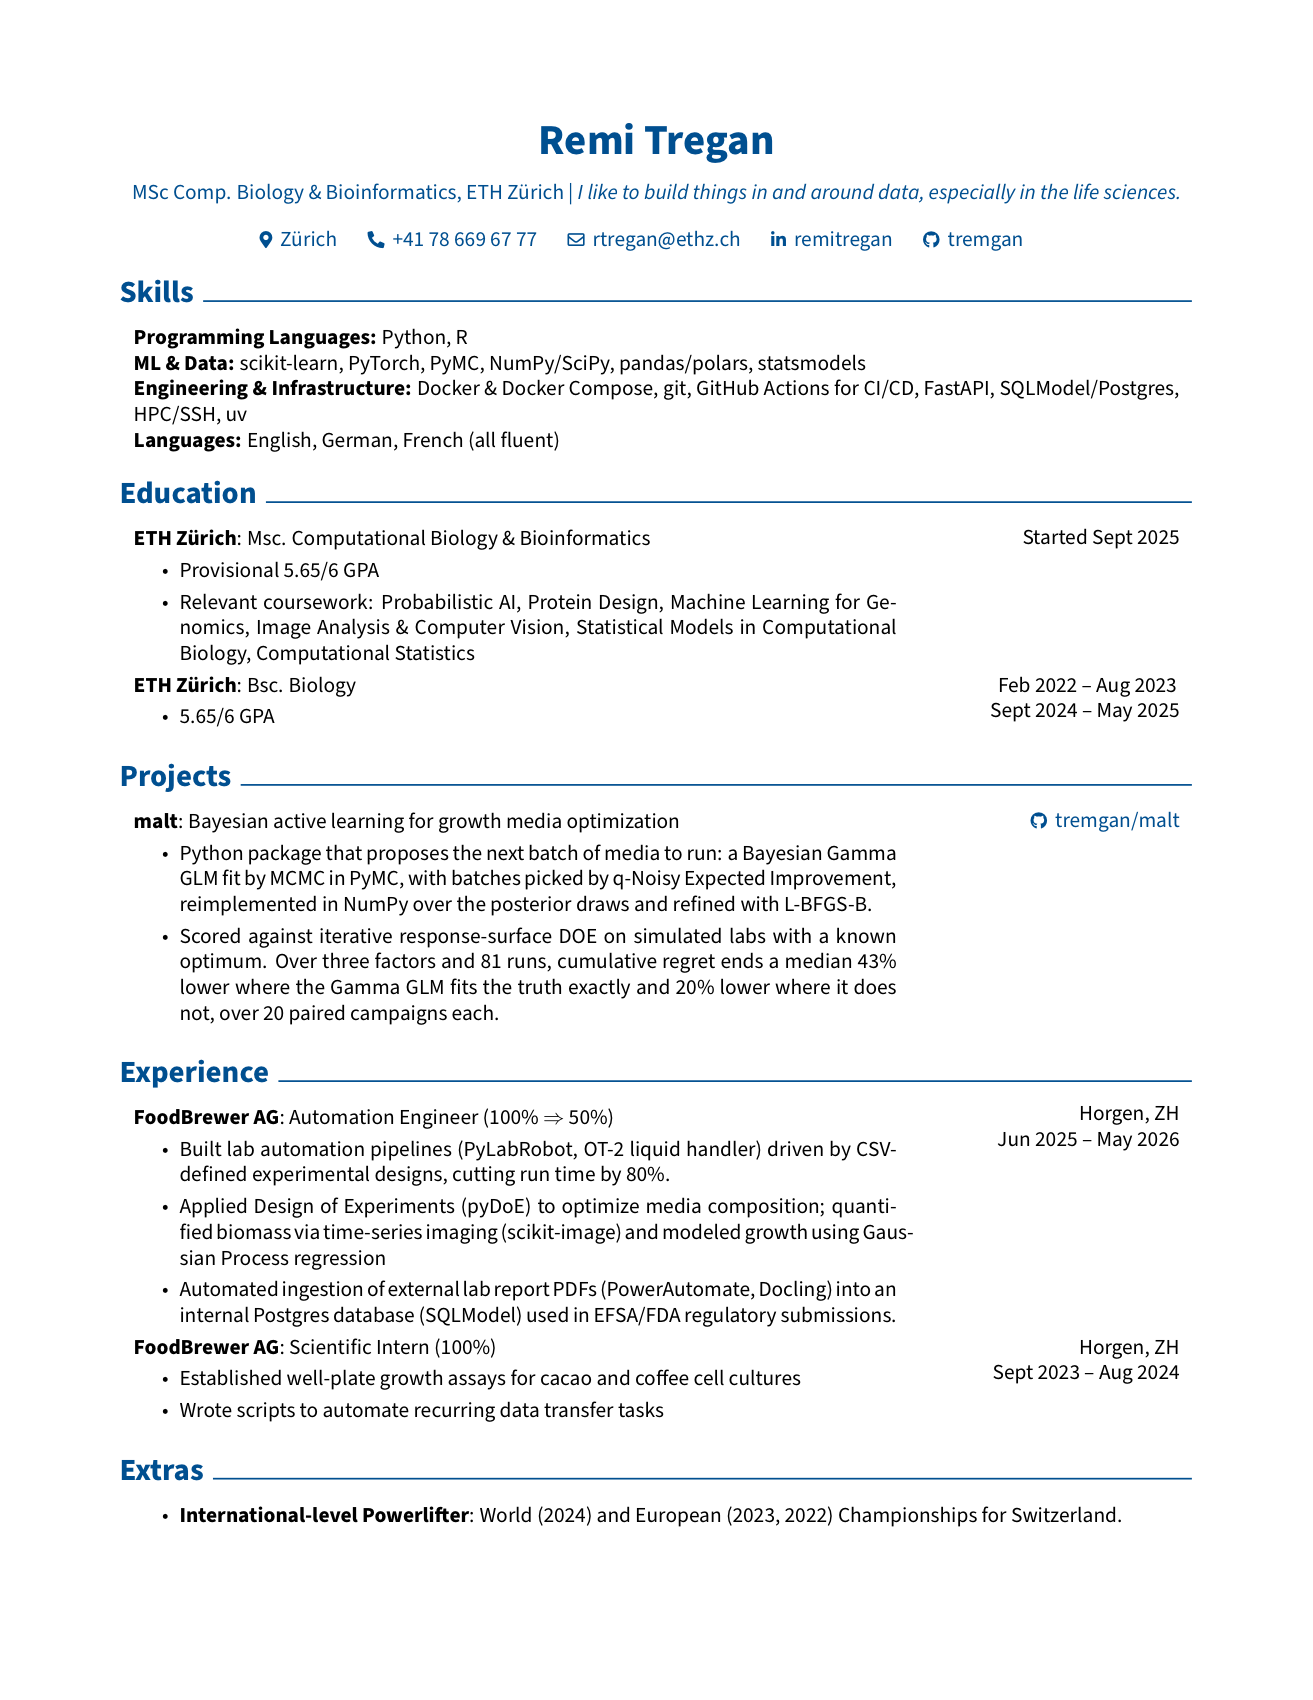
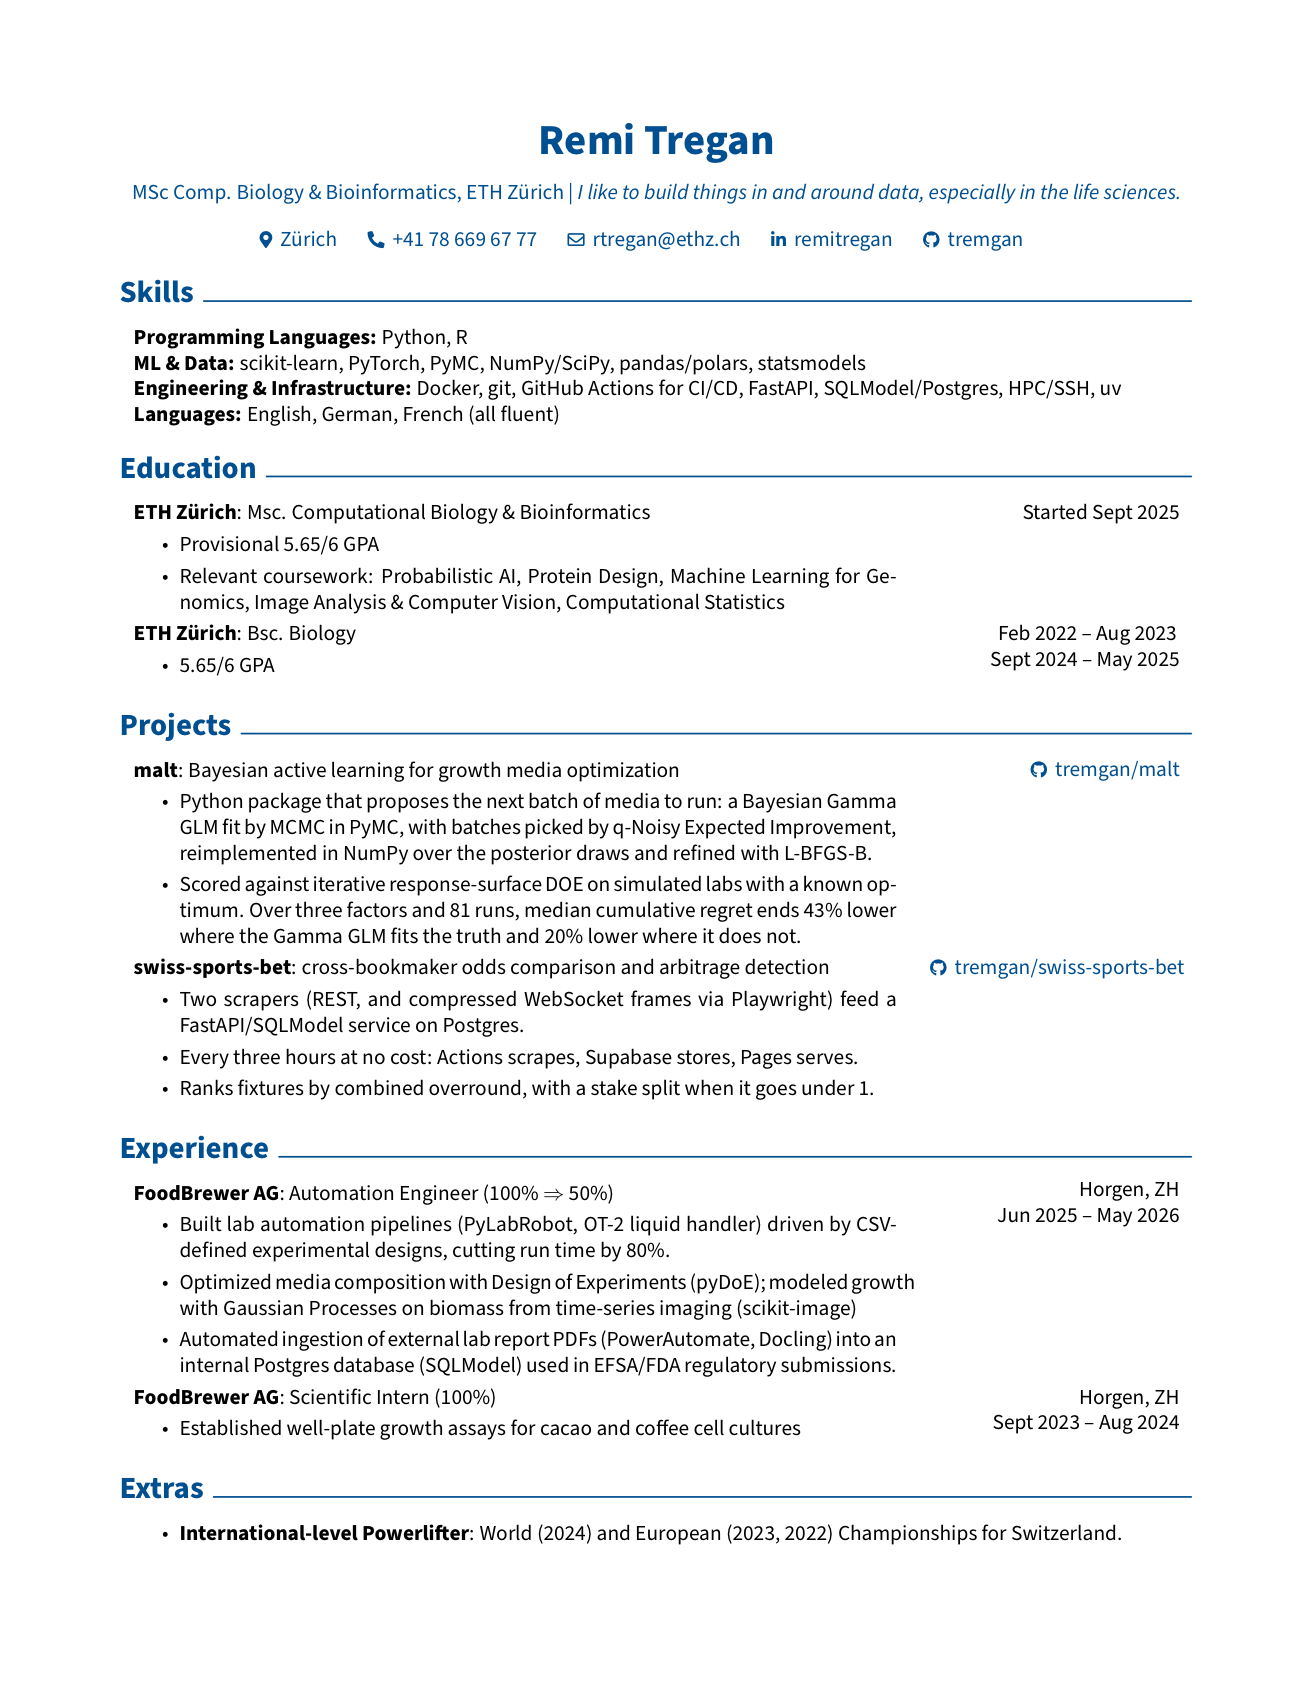
add swiss-sports-bet to Projects
Three bullets: the two scrapers and the service behind them, the free
infrastructure it runs on, and the arbitrage ranking.

Made room on the page by cutting the vague "wrote scripts to automate
recurring data transfer tasks" bullet, dropping a redundant coursework
entry, and tightening the malt benchmark and the pyDoE bullet.

diff --git a/cv.tex b/cv.tex
@@ -206,7 +206,7 @@
 \begin{onecolentry}
     \textbf{Programming Languages:} Python, R\\
     \textbf{ML \& Data:} scikit-learn, PyTorch, PyMC, NumPy/SciPy, pandas/polars, statsmodels  \\
-    \textbf{Engineering \& Infrastructure:} Docker \& Docker Compose, git, GitHub Actions for CI/CD, FastAPI, SQLModel/Postgres, HPC/SSH, uv \\
+    \textbf{Engineering \& Infrastructure:} Docker, git, GitHub Actions for CI/CD, FastAPI, SQLModel/Postgres, HPC/SSH, uv \\
     \textbf{Languages:} English, German, French (all fluent)
 \end{onecolentry}
     \section{Education}
@@ -216,7 +216,7 @@
             \textbf{ETH Zürich}: Msc. Computational Biology \& Bioinformatics
             \begin{highlights}
             \item Provisional 5.65/6 GPA
-            \item Relevant coursework: Probabilistic AI, Protein Design, Machine Learning for Genomics, Image Analysis \& Computer Vision, Statistical Models in Computational Biology, Computational Statistics
+            \item Relevant coursework: Probabilistic AI, Protein Design, Machine Learning for Genomics, Image Analysis \& Computer Vision, Computational Statistics
                 \end{highlights}
         \end{twocolentry}
       \begin{twocolentry}{
@@ -236,7 +236,18 @@
             \textbf{malt}: Bayesian active learning for growth media optimization
             \begin{highlights}
             \item Python package that proposes the next batch of media to run: a Bayesian Gamma GLM fit by MCMC in PyMC, with batches picked by q-Noisy Expected Improvement, reimplemented in NumPy over the posterior draws and refined with L-BFGS-B.
-            \item Scored against iterative response-surface DOE on simulated labs with a known optimum. Over three factors and 81 runs, cumulative regret ends a median 43\% lower where the Gamma GLM fits the truth exactly and 20\% lower where it does not, over 20 paired campaigns each.
+            \item Scored against iterative response-surface DOE on simulated labs with a known optimum. Over three factors and 81 runs, median cumulative regret ends 43\% lower where the Gamma GLM fits the truth and 20\% lower where it does not.
+                \end{highlights}
+        \end{twocolentry}
+
+    \begin{twocolentry}{
+             \mbox{\hrefWithoutArrow{https://github.com/tremgan/swiss-sports-bet}{{\footnotesize\faGithub}\hspace*{0.13cm}tremgan/swiss-sports-bet}}
+        }
+            \textbf{swiss-sports-bet}: cross-bookmaker odds comparison and arbitrage detection
+            \begin{highlights}
+            \item Two scrapers (REST, and compressed WebSocket frames via Playwright) feed a FastAPI/SQLModel service on Postgres.
+            \item Every three hours at no cost: Actions scrapes, Supabase stores, Pages serves.
+            \item Ranks fixtures by combined overround, with a stake split when it goes under 1.
                 \end{highlights}
         \end{twocolentry}
 
@@ -250,7 +261,7 @@
                
             \begin{highlights}
             \item Built lab automation pipelines (PyLabRobot, OT-2 liquid handler) driven by CSV-defined experimental designs, cutting run time by 80\%.
-             \item Applied Design of Experiments (pyDoE) to optimize media composition; quantified biomass via time-series imaging (scikit-image) and modeled growth using Gaussian Process regression
+             \item Optimized media composition with Design of Experiments (pyDoE); modeled growth with Gaussian Processes on biomass from time-series imaging (scikit-image)
             \item Automated ingestion of external lab report PDFs (PowerAutomate, Docling) into an internal Postgres database (SQLModel) used in EFSA/FDA regulatory submissions.
           
                     
@@ -265,7 +276,6 @@
             \textbf{FoodBrewer AG}: Scientific Intern (100\%)
             \begin{highlights}
             \item Established well-plate growth assays for cacao and coffee cell cultures
-                \item Wrote scripts to automate recurring data transfer tasks
                 
             \end{highlights}
         \end{twocolentry}
